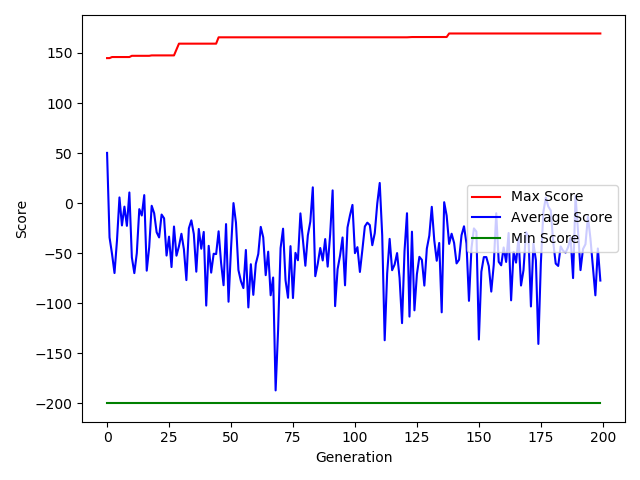
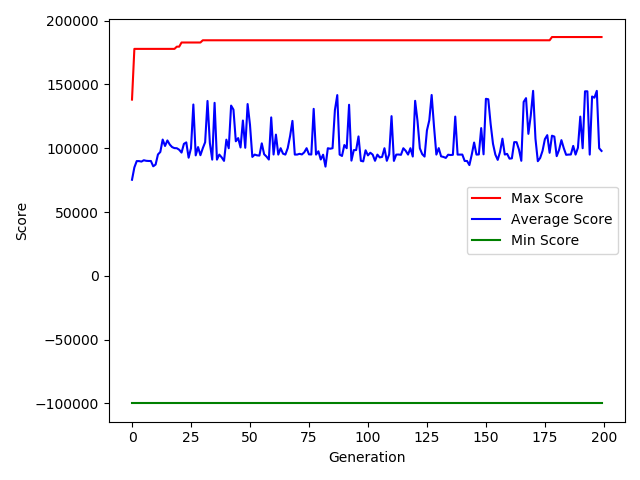
asdasd

diff --git a/ffuncion/fitnessfunctions.py b/ffuncion/fitnessfunctions.py
@@ -1,3 +1,9 @@
+from structs.arboles import TerminalNode
+
+
+MAX_SCORE = 100000
+
+
 class IgualdadNumericString:
     def __init__(self, meta):
         self.meta = meta
@@ -43,8 +49,24 @@ class IgualdadValorFormulaYProfundidad:
 
     def aplicar(self, nodo):
         formula_val = nodo.eval()
-        delta = abs(self.meta - formula_val)*100/self.vdw
-        score1 = 100 - delta
+        delta = abs(self.meta - formula_val) * MAX_SCORE / self.vdw
+        score1 = MAX_SCORE - delta
         gamma = nodo.depth(0) - 1
-        score2 = (100 - gamma*100/self.ddw)
-        return max(score1 + score2, -200)
+        score2 = (MAX_SCORE - gamma * MAX_SCORE / self.ddw)
+        return max(score1 + score2, -MAX_SCORE)
+
+
+class IgualdadValorFormulaYProfundidadSinRepeticion(IgualdadValorFormulaYProfundidad):
+    def aplicar(self, nodo):
+        values = []
+        for node in nodo.serialize():
+            if isinstance(node, TerminalNode):
+                if node.value in values:
+                    return -MAX_SCORE
+                else:
+                    values.append(node.value)
+        delta = abs(self.meta - nodo.eval())*MAX_SCORE / self.vdw
+        score1 = MAX_SCORE - delta
+        gamma = nodo.depth(0) - 1
+        score2 = (MAX_SCORE - gamma*MAX_SCORE / self.ddw)
+        return max(score1 + score2, -MAX_SCORE)

diff --git a/sinrepeticion.py b/sinrepeticion.py
@@ -1,7 +1,7 @@
 from algoritmo.auxfun import ez_plot
 from algoritmo.genetico import AlgoritmoGenetico
 from condicion.condicion import IteracionesCondicion
-from ffuncion.fitnessfunctions import IgualdadValorFormulaYProfundidad
+from ffuncion.fitnessfunctions import IgualdadValorFormulaYProfundidadSinRepeticion
 from structs.ast import *
 
 
@@ -12,16 +12,16 @@ meta = 65346
 
 ci = IteracionesCondicion(200)
 
-ff = IgualdadValorFormulaYProfundidad(meta, meta, 20)
+ff = IgualdadValorFormulaYProfundidadSinRepeticion(meta, meta, 20)
 
 ast = AST(allowed_functions, allowed_terminals)
 
 
 def generate_pop(n, depth, ast):
-	return [ast(depth) for _ in range(n)]
+	return [ast(2) for _ in range(n)]
 
 
-ag = AlgoritmoGenetico(200, ff, ast, 0.2, ci, 5, generate_pop)
+ag = AlgoritmoGenetico(200, ff, ast, 0.5, ci, 2, generate_pop)
 
 res = ag.run()
 

diff --git a/algoritmo/genetico.py b/algoritmo/genetico.py
@@ -94,6 +94,6 @@ class AlgoritmoGenetico:
         new_element = cromosoma.copy()
         nodes_1 = new_element.serialize()
         p1 = nodes_1[np.random.randint(0, len(nodes_1))]
-        p2 = self.funcion_gen(np.random.randint(0, 20))
+        p2 = self.funcion_gen(np.random.randint(0, self.largo_cromosoma))
         p1.replace(p2)
         return new_element

diff --git a/findnunmber.py b/findnunmber.py
@@ -20,7 +20,7 @@ ast = AST(allowed_functions, allowed_terminals)
 def generate_pop(n, depth, ast):
 	return [ast(depth) for _ in range(n)]
 
-ag = AlgoritmoGenetico(100, ff, ast, 0.3, ci, 5, generate_pop)
+ag = AlgoritmoGenetico(100, ff, ast, 0.3, ci, 4, generate_pop)
 
 res = ag.run()
 

diff --git a/README.md b/README.md
@@ -28,12 +28,12 @@ el programa en ejecutar los procesos de validación, selección y reproducción
 por generación. Note como el tiempo aumenta en cada generación debido a que el crossover
 tiende a incrementar la profundidad de los árboles.
 
-![Figure 1](https://github.com/solzhen/tarea3rrnn/blob/master/figs/Figure_2.png)
+![Figure 2](https://github.com/solzhen/tarea3rrnn/blob/master/figs/Figure_2.png)
 
 ### 1.2 Fitness
 
 Para solucionar el problema del tiempo de ejecución, 
-reducimos puntaje de los árboles demasiado profundos.
+se reduce el puntaje de los árboles demasiado profundos.
 La nueva función de fitness otorga la misma importancia
 tanto al valor de la forma como la profundidad. 
 Utiliza dos puntajes: mientras 
@@ -41,13 +41,32 @@ mas cercano al valor buscado, más cercano a 100 el puntaje por valor,
 y mientras más cercano a 1 node de profundidad, más 
 cercano el puntaje por profundidad a 100. La suma
 de ambos puntajes es el puntaje final.
+Se utilizó una población de 200 individuos, con 200 generaciones
+como límite, tasa de mutación de 0.2:
 
-![Figure 1](https://github.com/solzhen/tarea3rrnn/blob/master/figs/Figure_3.png)
+![Figure 3](https://github.com/solzhen/tarea3rrnn/blob/master/figs/Figure_3.png)
 
-Con esto se redujo el tiempo de ejecución por generación:
+El ganador fue la siguiente expressión:
 
-![Figure 1](https://github.com/solzhen/tarea3rrnn/blob/master/figs/Figure_4.png)
+**((max({25, 4}) * max({100, 4})) + ((25 * 25) * 100))**
 
+Que da como resultado 65000
 
+Con la nueva función de fitness
+también se redujo el tiempo de ejecución por generación:
+
+![Figure 4](https://github.com/solzhen/tarea3rrnn/blob/master/figs/Figure_4.png)
+
+### 1.3 Sin repetición
+
+Modificada la función fitness para otorgar el puntaje minimo si
+se repite algún nodo terminal con un mismo valor.
+
+![Figure 4](https://github.com/solzhen/tarea3rrnn/blob/master/figs/Figure_4.png)
+
+ La siguiente expresión:
  
+  **((25 * 7) * (100 * 4))**
+  
+  que da 70000.
 
